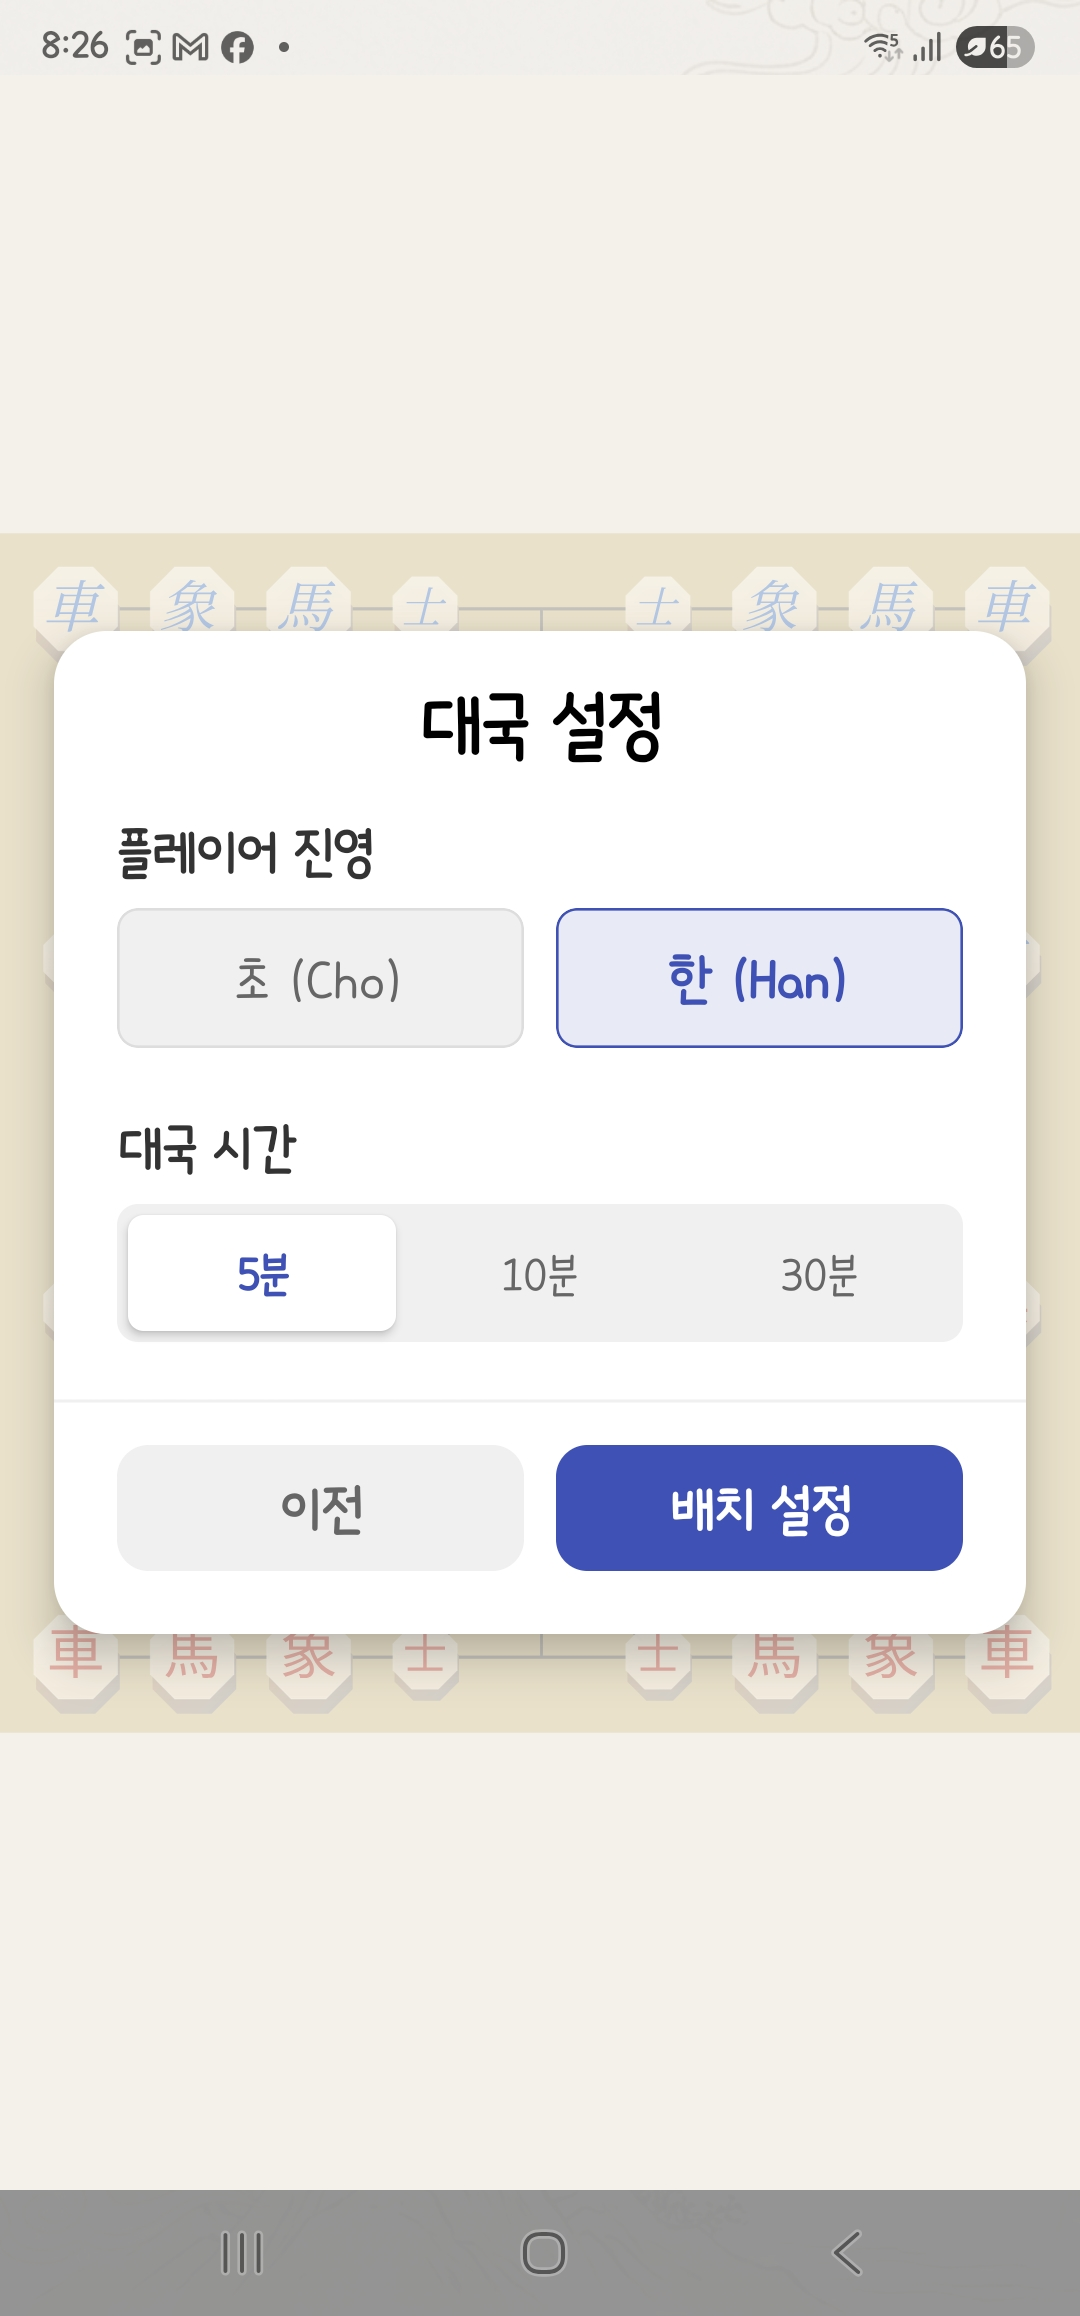
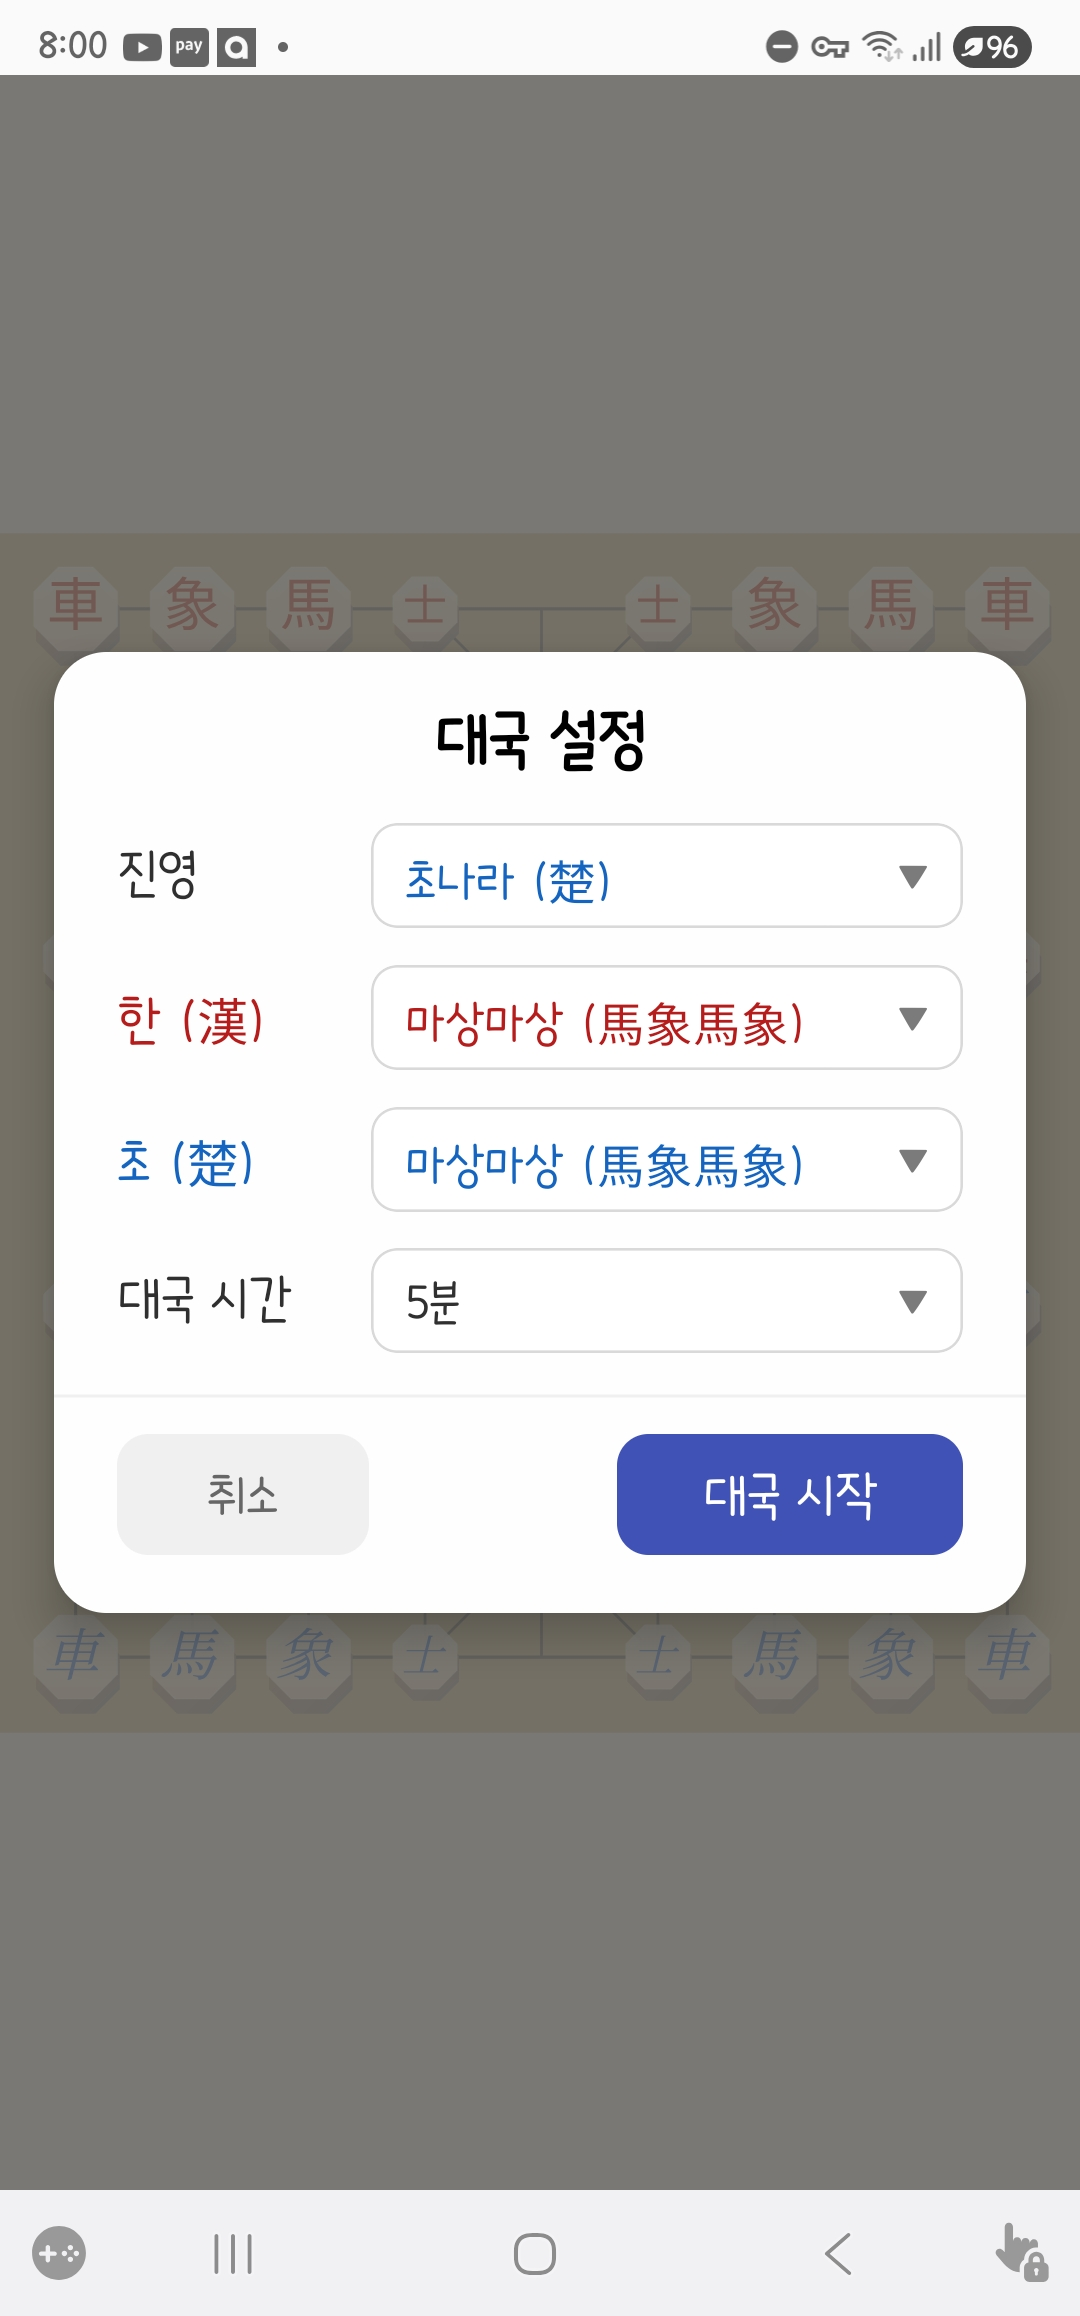
Deploying to main from @ flitsky/Janggi-App@069c97ffd3584149fdf2ed67b2e298e0d6284aa8 🚀

diff --git a/index.html b/index.html
@@ -377,11 +377,11 @@
         <!-- Latest Update Notice -->
         <div class="beta-notice fade-in delay-100"
             style="background: rgba(255, 255, 255, 0.95); border: 1px solid #ddd;">
-            <p><strong>🆕 최신 업데이트: v1.8.11</strong></p>
+            <p><strong>🆕 최신 업데이트: v1.8.15</strong></p>
             <p style="margin-top:8px; font-size: 0.95rem;">
-                AI 엔진 분석 모드가 더 똑똑하고 매끄러워졌습니다.<br>
-                초/한 진영별로 엔진 설정을 따로 맞출 수 있고,<br>
-                자동 착수와 수순 이동으로 흐름을 더 쉽게 확인할 수 있습니다.
+                대국 시작/AI 분석 설정 화면을 더 단순하고 빠르게 개편했습니다.<br>
+                진영/배치/시간 설정 흐름을 통합해 진입 단계를 줄였고,<br>
+                보드 프리뷰와 함께 즉시 시작할 수 있도록 개선했습니다.
             </p>
             <p style="margin-top:10px; font-size: 0.95rem;">
                 <a href="release-note/index.html">업데이트 노트에서 자세히 보기 →</a>
@@ -420,25 +420,22 @@
                 <img src="assets/screenshots/screenshot-1.jpg" alt="캐릭터 선택" loading="lazy">
             </div>
             <div class="screenshot-card" onclick="openModal('assets/screenshots/screenshot-2.jpg')">
-                <img src="assets/screenshots/screenshot-2.jpg" alt="대국 설정" loading="lazy">
+                <img src="assets/screenshots/screenshot-2.jpg" alt="캐릭터 선택2" loading="lazy">
             </div>
             <div class="screenshot-card" onclick="openModal('assets/screenshots/screenshot-3.jpg')">
-                <img src="assets/screenshots/screenshot-3.jpg" alt="상차림" loading="lazy">
+                <img src="assets/screenshots/screenshot-3.jpg" alt="오늘의 묘수" loading="lazy">
             </div>
             <div class="screenshot-card" onclick="openModal('assets/screenshots/screenshot-4.jpg')">
-                <img src="assets/screenshots/screenshot-4.jpg" alt="대국 화면" loading="lazy">
+                <img src="assets/screenshots/screenshot-4.jpg" alt="오늘의 묘수2" loading="lazy">
             </div>
             <div class="screenshot-card" onclick="openModal('assets/screenshots/screenshot-5.jpg')">
-                <img src="assets/screenshots/screenshot-5.jpg" alt="분석 및 복기" loading="lazy">
+                <img src="assets/screenshots/screenshot-5.jpg" alt="대국 설정" loading="lazy">
             </div>
             <div class="screenshot-card" onclick="openModal('assets/screenshots/screenshot-6.jpg')">
-                <img src="assets/screenshots/screenshot-6.jpg" alt="오늘의 묘수" loading="lazy">
+                <img src="assets/screenshots/screenshot-6.jpg" alt="대국 화면" loading="lazy">
             </div>
             <div class="screenshot-card" onclick="openModal('assets/screenshots/screenshot-7.jpg')">
-                <img src="assets/screenshots/screenshot-7.jpg" alt="캐릭터 도감" loading="lazy">
-            </div>
-            <div class="screenshot-card" onclick="openModal('assets/screenshots/screenshot-8.jpg')">
-                <img src="assets/screenshots/screenshot-8.jpg" alt="새로운 화면" loading="lazy">
+                <img src="assets/screenshots/screenshot-7.jpg" alt="엔진 분석 화면" loading="lazy">
             </div>
         </div>
     </section>

diff --git a/release-note/index.html b/release-note/index.html
@@ -211,6 +211,51 @@
             <a href="../index.html" class="back-link">← 홈으로 돌아가기</a>
         </header>
 
+        <!-- v1.8.15 Release -->
+        <article class="release-card">
+            <div class="version-header">
+                <div style="display: flex; align-items: center; gap: 15px;">
+                    <span class="version-tag">v1.8.15</span>
+                    <h2>대국 시작·AI 분석 설정 화면 간소화</h2>
+                </div>
+                <span class="release-date">2026년 3월 1일</span>
+            </div>
+
+            <p>
+                대국 시작과 AI 엔진 분석 진입 전 설정 단계를 더 짧고 명확하게 정리했습니다.<br>
+                공통 설정 UI를 기반으로 진영/배치 선택 흐름을 통합해,
+                화면 이동 없이 빠르게 시작할 수 있도록 개선했습니다.
+            </p>
+
+            <h3>✨ 주요 변경 사항 (Highlights)</h3>
+            <ul>
+                <li>
+                    <span class="tag-impr">UX</span>
+                    <strong>대국 시작 설정 흐름 단일 화면 통합</strong><br>
+                    분리되어 있던 설정 단계를 하나의 설정 모달로 묶어
+                    대국 시작까지 필요한 입력을 더 빠르게 끝낼 수 있습니다.
+                </li>
+                <li>
+                    <span class="tag-impr">Impr</span>
+                    <strong>설정 항목 공통 드롭다운 UI 확대 적용</strong><br>
+                    진영, 초/한 배치, 대국 시간을 동일한 인터랙션으로 구성해
+                    조작 일관성과 가독성을 높였습니다.
+                </li>
+                <li>
+                    <span class="tag-feat">New</span>
+                    <strong>보드 프리뷰 기반 설정 화면 개선</strong><br>
+                    설정 중에도 대국 보드 맥락을 바로 확인할 수 있어
+                    설정값과 실제 시작 화면의 연결이 더 직관적입니다.
+                </li>
+                <li>
+                    <span class="tag-impr">UX</span>
+                    <strong>AI 엔진 분석 설정 단계 간소화</strong><br>
+                    분석 설정과 배치 설정 흐름을 통합해
+                    중간 단계 전환 없이 바로 분석 시작까지 이어지도록 개선했습니다.
+                </li>
+            </ul>
+        </article>
+
         <!-- v1.8.11 Release -->
         <article class="release-card">
             <div class="version-header">
